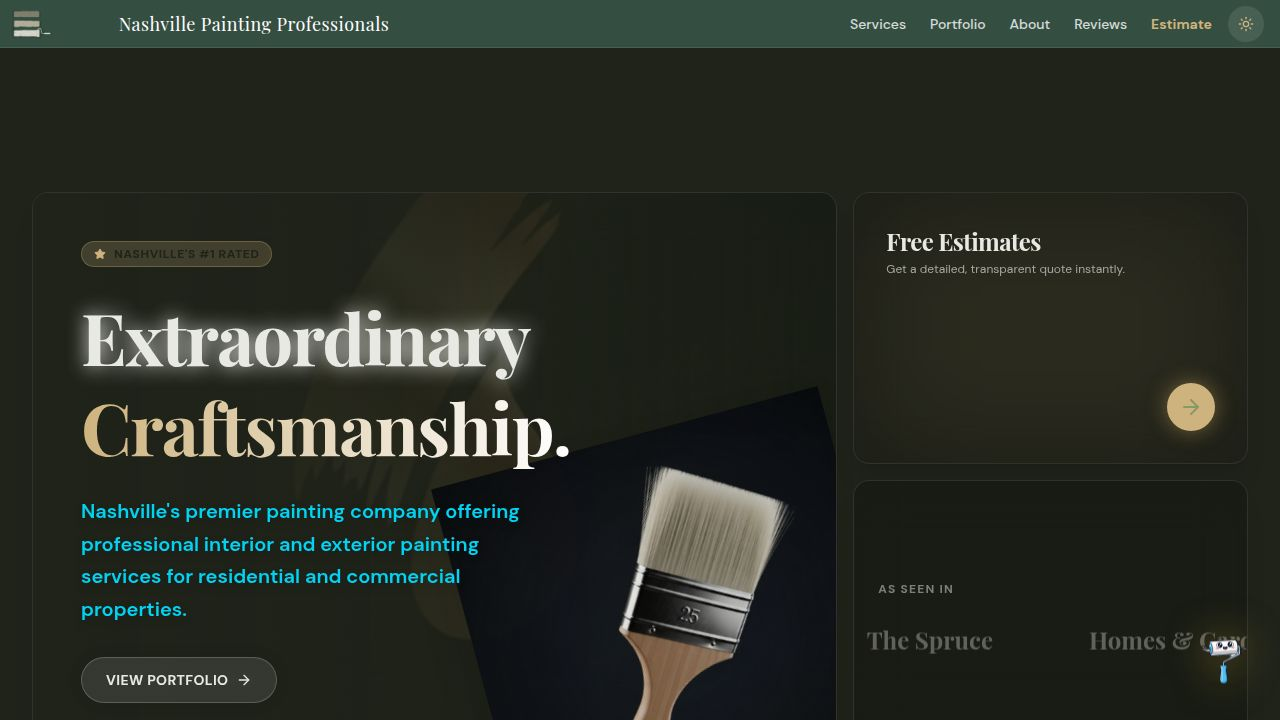
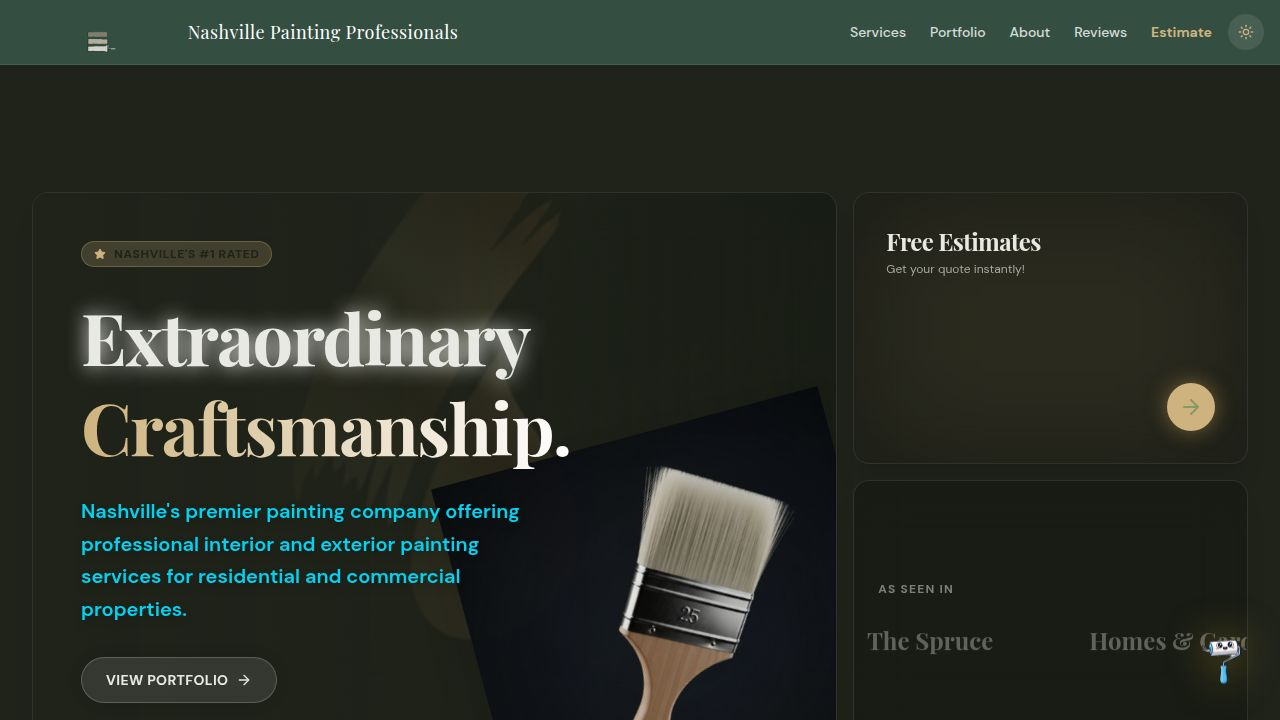
Adjust navigation bar and home page layout for better mobile viewing
Fixes the positioning of the hamburger menu in the mobile navigation bar by removing negative margins and adjusting icon/image sizes. Also reduces top padding on the home page and modifies the "Free Estimates" card to display a description on smaller screens.

Replit-Commit-Author: Agent
Replit-Commit-Session-Id: 9640b7bd-518e-421e-8382-ba3444a8e185
Replit-Commit-Checkpoint-Type: full_checkpoint
Replit-Commit-Event-Id: a53c5bb0-e22a-4278-9e08-0a7ffd87faac
Replit-Commit-Screenshot-Url: https://storage.googleapis.com/screenshot-production-us-central1/57a1a84c-83d8-41f5-82c5-8661edb484a4/9640b7bd-518e-421e-8382-ba3444a8e185/95EkMct
Replit-Helium-Checkpoint-Created: true

Changed region(s): [[0.0, 0.0, 1.0, 0.0917], [0.7188, 0.3667, 0.875, 0.3972]]

diff --git a/client/src/components/ui/navbar.tsx b/client/src/components/ui/navbar.tsx
@@ -34,31 +34,25 @@ export function Navbar() {
     <header className="fixed top-0 left-0 right-0 z-50 border-b border-white/10" style={{ backgroundColor: '#344e41' }}>
       <div className="w-full px-2 md:px-4 py-1 flex items-center justify-between">
         {/* Left: Hamburger Emblem + Title */}
-        <div className="flex items-center gap-2">
+        <div className="flex items-center gap-1 md:gap-2">
           <button 
-            className={cn(
-              "p-0 hover:bg-white/10 rounded-lg transition-all flex-shrink-0 flex items-center",
-              isOpen ? "ml-2" : "-ml-[93px] -mt-[25px]"
-            )}
+            className="p-1 hover:bg-white/10 rounded-lg transition-all flex-shrink-0 flex items-center"
             onClick={() => setIsOpen(!isOpen)}
             data-testid="button-hamburger-menu"
             aria-label="Toggle menu"
           >
             {isOpen ? (
-              <X size={32} className="text-white" />
+              <X size={24} className="text-white" />
             ) : (
               <img 
                 src={nppEmblem} 
                 alt="Menu"
-                className="h-12 md:h-16 w-auto object-contain"
+                className="h-8 md:h-12 w-auto object-contain"
               />
             )}
           </button>
           <div 
-            className={cn(
-              "text-white tracking-wide text-sm md:text-lg",
-              isOpen ? "ml-2" : "-ml-5"
-            )}
+            className="text-white tracking-wide text-xs md:text-lg truncate max-w-[180px] md:max-w-none"
             style={{ fontFamily: 'Playfair Display, serif' }}
             data-testid="text-header-title"
           >

diff --git a/client/src/pages/home.tsx b/client/src/pages/home.tsx
@@ -44,7 +44,7 @@ export default function Home() {
 
   return (
     <PageLayout>
-      <main className="pt-24 px-4 md:px-8">
+      <main className="pt-16 md:pt-24 px-2 md:px-8">
         <BentoGrid>
           
           {/* 1. Hero Section - Main Headline */}
@@ -91,9 +91,9 @@ export default function Home() {
             <a href="/estimate" className="block h-full" data-testid="link-free-estimate-card">
               <GlassCard className="bg-accent/10 border-accent/20 flex flex-col justify-between p-3 md:p-8 group h-full cursor-pointer hover:border-accent/40 transition-colors" glow>
                 <div>
-                  <h3 className="text-sm md:text-2xl font-display font-bold mb-1">Free Estimates</h3>
-                  <p className="text-xs text-muted-foreground hidden md:block">
-                    Get a detailed, transparent quote instantly.
+                  <h3 className="text-sm md:text-2xl font-display font-bold mb-0.5 md:mb-1">Free Estimates</h3>
+                  <p className="text-[10px] md:text-xs text-muted-foreground line-clamp-2">
+                    Get your quote instantly!
                   </p>
                 </div>
                 <div className="flex justify-end">
